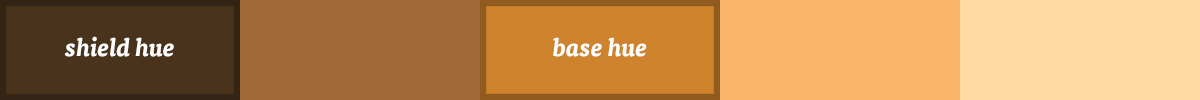
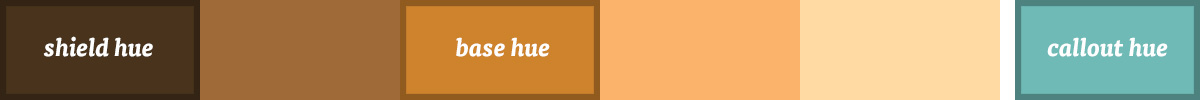
Deployed: Merge pull request #176 from masondesu/joe-fixes
generated from commit 0a427c1d3bfbfd388664aad146abeaefa85caca5

diff --git a/about/brand-standards/index.html b/about/brand-standards/index.html
@@ -85,7 +85,7 @@
         </div>
         <div class="col-lg-7 col-sm-6">
           <h3>On Photography</h3>
-          <p>A common way to use the mark is to position it on top of a photograph. When this occurs, the white version of the shield must me used. This should happen only when layered on top of a <a href="#photo">duotone feature photo</a>. The white logo can be used when layered on top of solid colors as well - like <a href="#color">academy class colors</a>.</p>
+          <p>A common way to use the mark is to position it on top of a photograph. When this occurs, the white version of the shield must me used. This should happen only when layered on top of a <a href="#photo">duotone feature photo</a>. The white logo can be used when layered on top of solid colors as well - like <a href="#subbrands">academy class colors</a>.</p>
         </div>
       </div>
       <div class="three-col-cta row">
@@ -120,7 +120,7 @@
         </div>
         <div class="col-lg-4 col-sm-4"><a href="/images/standards-guide/TIY-Swatches.zip" style="margin:30px 0; float:right;" class="btn hover">Download Swatches  </a></div>
         <div class="col-md-12"> 
-          <p>The dominant color of The Iron Yard Brand is the standard Gray that is used in the shield mark. Other major colors in the palette denote sub-brands associated with subjects within the Academy. These are featured in the mext section. Each color has hue progressions associated with it with the middle hue being the dominant variation. Practically, these can be used as tone-on-tone variants of the dominant color and used to add variety to any illustration or layout. These hue variants are used to create the duotone imagery seen in the <a href="#photo">photography section</a>. Sometimes, when creating printed pieces for each of the sub-brands, a darker shield may be used on top of the sub-brand's base hue. See the header of this web page as an example. It is assumed that most print appications will be executed using 1-color or 4-color process plus a spot for the logo if needed. If you really want to get fancy, the duotones can be created using the two spot colors as well, but it's not necessary.</p>
+          <p>The dominant color of The Iron Yard Brand is the standard Gray that is used in the shield mark. Other major colors in the palette denote sub-brands associated with subjects within the Academy. These are featured in the mext section. Each color has hue progressions associated with it with the middle hue being the dominant variation. Practically, these can be used as tone-on-tone variants of the dominant color and used to add variety to any illustration or layout. These hue variants are used to create the duotone imagery seen in the <a href="#photo">photography section</a>. Sometimes, when creating printed pieces for each of the sub-brands, a darker shield may be used on top of the sub-brand's base hue. See the header of this web page as an example. It is assumed that most print appications will be executed using 1-color or 4-color process plus a spot for the logo if needed. If you really want to get fancy, the duotones can be created using the two spot colors as well, but it's not necessary. Each hue progression has a callout color associated with it as well. The callout color is used to emphasize the call-to-action in layouts. It should be used sparingly. See the <a href="#examples">files at the bottom of the guide</a> as examples of how the hues can be used in conjunction with each other.</p>
           <hr>
         </div>
       </div>
@@ -130,7 +130,7 @@
         </div>
         <div class="col-lg-9 col-sm-9">
           <h3>Primary Mark Color</h3>
-          <p>The shield hue is always at the darkest end of the color progressions. The darker color makes the mark more versatile to the desginer as it offers greater contrast when paired with the option of using the one-color while mark.  </p>
+          <p>The shield hue is always at the darkest end of the color progressions. The darker color makes the mark more versatile to the desginer as it offers greater contrast when paired with the option of using the one-color white mark.  </p>
           <ul style="display:inline; list-style: none; padding: 0; margin: 0;">
             <li style="display: inline; padding: 0 20px 0 0;">PMS 7546</li>
             <li style="display: inline; padding: 0 20px 0 0;">RGB: 32,47,55</li>
@@ -155,6 +155,13 @@
             <li style="display: inline; padding: 0 20px 0 0;"><strong>Base:</strong> PMS 7544</li>
             <li style="display: inline; padding: 0 20px 0 0;">RGB: 114,125,132</li>
             <li style="display: inline; padding: 0 20px 0 0;">CMYK: 58,41,35,4 </li>
+          </ul>
+        </div>
+        <div class="col-lg-12 col-sm-12"> 
+          <ul style="display:inline; list-style: none; padding: 0; margin: 0;">
+            <li style="display: inline; padding: 0 20px 0 0;"><strong>Callout:</strong></li>
+            <li style="display: inline; padding: 0 20px 0 0;">RGB: 111,186,182</li>
+            <li style="display: inline; padding: 0 20px 0 0;">CMYK: 50,0,25,10    </li>
           </ul>
         </div>
       </div>
@@ -207,6 +214,13 @@
             <li style="display: inline; padding: 0 20px 0 0;">CMYK: 20,65,100,6</li>
           </ul>
         </div>
+        <div class="col-lg-12 col-sm-12">   
+          <ul style="display:inline; list-style: none; padding: 0; margin: 0;">
+            <li style="display: inline; padding: 0 20px 0 0;"><strong>Callout:</strong></li>
+            <li style="display: inline; padding: 0 20px 0 0;">RGB: 111,186,182</li>
+            <li style="display: inline; padding: 0 20px 0 0;">CMYK: 50,0,25,10           </li>
+          </ul>
+        </div>
       </div>
       <div class="row">  
         <div class="col-md-12">
@@ -215,7 +229,7 @@
       </div>
       <div class="row"></div>
       <div class="three-col-cta row">
-        <div class="col-lg-4"><img src="/images/standards-guide/icon-iOS.png" style="max-width:100%;"></div>
+        <div class="col-lg-4"><img src="/images/standards-guide/icon-iOS.jpg" style="max-width:100%;"></div>
         <div class="col-lg-4"><img src="/images/standards-guide/icon-iOS-shield.png" style="max-width:100%;"></div>
         <div class="col-lg-4"><img src="/images/standards-guide/icon-iOS-1color.png" style="max-width:100%;"></div>
       </div>
@@ -235,6 +249,13 @@
             <li style="display: inline; padding: 0 20px 0 0;">CMYK: 26,23,100,0</li>
           </ul>
         </div>
+        <div class="col-lg-12 col-sm-12"> 
+          <ul style="display:inline; list-style: none; padding: 0; margin: 0;">
+            <li style="display: inline; padding: 0 20px 0 0;"><strong>Callout:</strong></li>
+            <li style="display: inline; padding: 0 20px 0 0;">RGB: 127,199,146</li>
+            <li style="display: inline; padding: 0 20px 0 0;">CMYK: 52,0,56,0          </li>
+          </ul>
+        </div>
       </div>
       <div class="row">  
         <div class="col-md-12">
@@ -243,7 +264,7 @@
       </div>
       <div class="row"></div>
       <div class="three-col-cta row">
-        <div class="col-lg-4"><img src="/images/standards-guide/Icon-RoR.png" style="max-width:100%;"></div>
+        <div class="col-lg-4"><img src="/images/standards-guide/Icon-RoR.jpg" style="max-width:100%;"></div>
         <div class="col-lg-4"><img src="/images/standards-guide/Icon-RoR-shield.png" style="max-width:100%;"></div>
         <div class="col-lg-4"><img src="/images/standards-guide/Icon-RoR-1color.png" style="max-width:100%;"></div>
       </div>
@@ -263,15 +284,22 @@
             <li style="display: inline; padding: 0 20px 0 0;">CMYK: 25,72,63,10</li>
           </ul>
         </div>
+        <div class="col-lg-12 col-sm-12"> 
+          <ul style="display:inline; list-style: none; padding: 0; margin: 0;">
+            <li style="display: inline; padding: 0 20px 0 0;"><strong>Callout:</strong></li>
+            <li style="display: inline; padding: 0 20px 0 0;">RGB: 177,179,181</li>
+            <li style="display: inline; padding: 0 20px 0 0;">CMYK: 0,0,0,35            </li>
+          </ul>
+        </div>
       </div>
       <div class="row">  
         <div class="col-md-12">
-          <h3>Web Design Blue</h3>
+          <h3>Web Design</h3>
         </div>
       </div>
       <div class="row"></div>
       <div class="three-col-cta row">
-        <div class="col-lg-4"><img src="/images/standards-guide/icon-WebDesign.png" style="max-width:100%;"></div>
+        <div class="col-lg-4"><img src="/images/standards-guide/icon-WebDesign.jpg" style="max-width:100%;"></div>
         <div class="col-lg-4"><img src="/images/standards-guide/icon-WebDesign-shield.png" style="max-width:100%;"></div>
         <div class="col-lg-4"><img src="/images/standards-guide/icon-WebDesign-1color.png" style="max-width:100%;"></div>
       </div>
@@ -291,15 +319,22 @@
             <li style="display: inline; padding: 0 20px 0 0;">CMYK: 92,24,23,0</li>
           </ul>
         </div>
+        <div class="col-lg-12 col-sm-12"> 
+          <ul style="display:inline; list-style: none; padding: 0; margin: 0;">
+            <li style="display: inline; padding: 0 20px 0 0;"><strong>Callout:</strong></li>
+            <li style="display: inline; padding: 0 20px 0 0;">RGB: 250,177,106</li>
+            <li style="display: inline; padding: 0 20px 0 0;">CMYK: 0,35,65,0          </li>
+          </ul>
+        </div>
       </div>
       <div class="row">  
         <div class="col-md-12">
-          <h3>Python Green</h3>
+          <h3>Python Engineering</h3>
         </div>
       </div>
       <div class="row"></div>
       <div class="three-col-cta row">
-        <div class="col-lg-4"><img src="/images/standards-guide/icon-Python.png" style="max-width:100%;"></div>
+        <div class="col-lg-4"><img src="/images/standards-guide/icon-Python.jpg" style="max-width:100%;"></div>
         <div class="col-lg-4"><img src="/images/standards-guide/icon-Python-shield.png" style="max-width:100%;"></div>
         <div class="col-lg-4"><img src="/images/standards-guide/icon-Python-1color.png" style="max-width:100%;"></div>
       </div>
@@ -316,7 +351,14 @@
           <ul style="display:inline; list-style: none; padding: 0; margin: 0;">
             <li style="display: inline; padding: 0 20px 0 0;"><strong>Base:</strong> PMS 346</li>
             <li style="display: inline; padding: 0 20px 0 0;">RGB: 89,189,123</li>
-            <li style="display: inline; padding: 0 20px 0 0;">CMYK: 56,0,54,0                        </li>
+            <li style="display: inline; padding: 0 20px 0 0;">CMYK: 56,0,54,0        </li>
+          </ul>
+        </div>
+        <div class="col-lg-12 col-sm-12"> 
+          <ul style="display:inline; list-style: none; padding: 0; margin: 0;">
+            <li style="display: inline; padding: 0 20px 0 0;"><strong>Callout:</strong></li>
+            <li style="display: inline; padding: 0 20px 0 0;">RGB: 233,213,84</li>
+            <li style="display: inline; padding: 0 20px 0 0;">CMYK: 10,10,80,0                          </li>
           </ul>
         </div>
       </div>
@@ -327,7 +369,7 @@
         </div>
         <div class="col-lg-4 col-sm-4"><a href="/images/standards-guide/Fonts.zip" style="margin:30px 0; float:right;" class="btn hover">Download Fonts</a></div>
         <div class="col-md-12"> 
-          <p>The main typeface that is used throughout The Iron Yard's collateral is Tisa Pro. Flimotype and Gravity are also used, but they are reserved for the construction of the Shield Mark. Tisa Pro Medium is mainly used for headlines and Tisa Pro Regular is used for body copy. The Medium font can be used for body copy as well. Tisa Pro Bold is mainly used for call to action text, or smaller text that needs to attract the viewer's attention. It works very well when displayed in all caps. Using any of the fonts in italics is another useful way to emphasize a word or phrase. The website uses the same typeface with a slightly different an more specific set of rules. They can be found <a href="http://masondesu.github.io/ghost-shield/">here</a> </p>
+          <p>The main typeface that is used throughout The Iron Yard's collateral is Tisa Pro. Flimotype and Gravity are also used, but they are reserved for the construction of the Shield Mark. Tisa Pro Medium is mainly used for headlines and Tisa Pro Regular is used for body copy. The Medium font can be used for body copy as well. Tisa Pro Bold is mainly used for call to action text, or smaller text that needs to attract the viewer's attention. It works very well when displayed in all caps. Using any of the fonts in italics is another useful way to emphasize a word or phrase. The website uses the same typeface with a slightly different an more specific set of rules. They can be found <a href="http://masondesu.github.io/ghost-shield/">here</a>.</p>
           <hr>
         </div>
       </div>
@@ -369,14 +411,14 @@
         <div id="examples" class="col-lg-8 col-sm-8">
           <h1>Elements & Examples</h1>
         </div>
-        <div class="col-lg-4 col-sm-4"><a href="#" style="margin:30px 0; float:right;" class="btn hover">Download Zip</a></div>
+        <div class="col-lg-4 col-sm-4"><a href="https://www.dropbox.com/s/cu519nxix36ausm/TIY-Example-Files.zip?dl=0" style="margin:30px 0; float:right;" class="btn hover">Download Zip</a></div>
         <div class="col-md-12"> 
           <p>There are different visual elements within The Iron Yard brand that are used to provide extra ways for the designer to draw attention to certain areas of the composition. One major element is the duotone imagery mentioned <a href="#photo">above</a>, but the arrow element is used in many places and is referenced below. Here are some examples of the brand identity in context. Download InDesign files of the featured layouts by clicking the link above.</p>
         </div>
       </div>
       <div class="row">  
-        <div class="col-md-12"><img src="/images/standards-guide/Samples-PostcardAndBoard.jpg" style="max-width:100%"></div>
-        <div class="col-md-12"> <img src="/images/standards-guide/Samples-Posters.jpg" style="max-width:100%">
+        <div class="col-md-12"><img src="/images/standards-guide/Samples-BillboardAndBanner.jpg" style="max-width:100%"></div>
+        <div class="col-md-12"> <img src="/images/standards-guide/Samples-PrintAndOnlineAds.jpg" style="max-width:100%">
           <hr>
         </div>
       </div>

diff --git a/academy/index.html b/academy/index.html
@@ -145,8 +145,9 @@
           <div class="col-md-6">
             <ul class="no-style-type">
               <li>• Houston:<br> <a href="tel:+7134253797">(713) 425-3797</a></li>
-              <li>• Tampa Bay:<br> <a href="tel:+8137752275">(813) 775-2275</a> </li>
               <li>• Orlando:<br> <a href="tel:+3212098655">(407) 358-6683</a> </li>
+              <li>• Tampa Bay:<br> <a href="tel:+8137752275">(813) 775-2275</a> </li>
+              <li>• Washington. DC:<br> <a href="tel:+5717339744">(571) 733-9744</a> </li>
             </ul>
           </div>
         </div>
